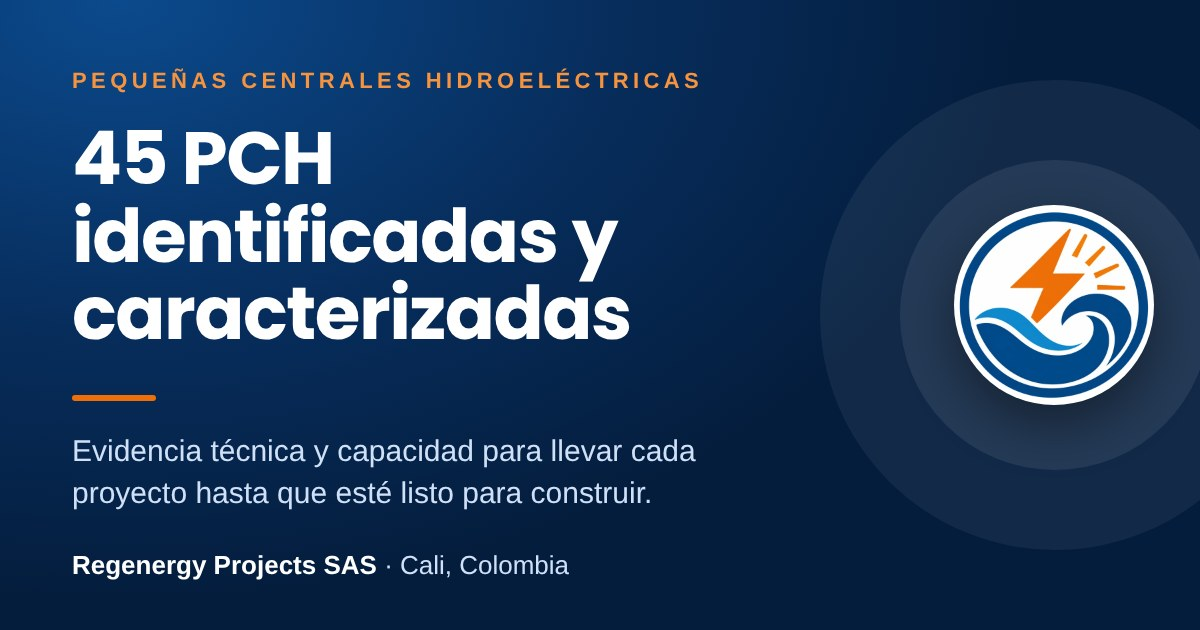
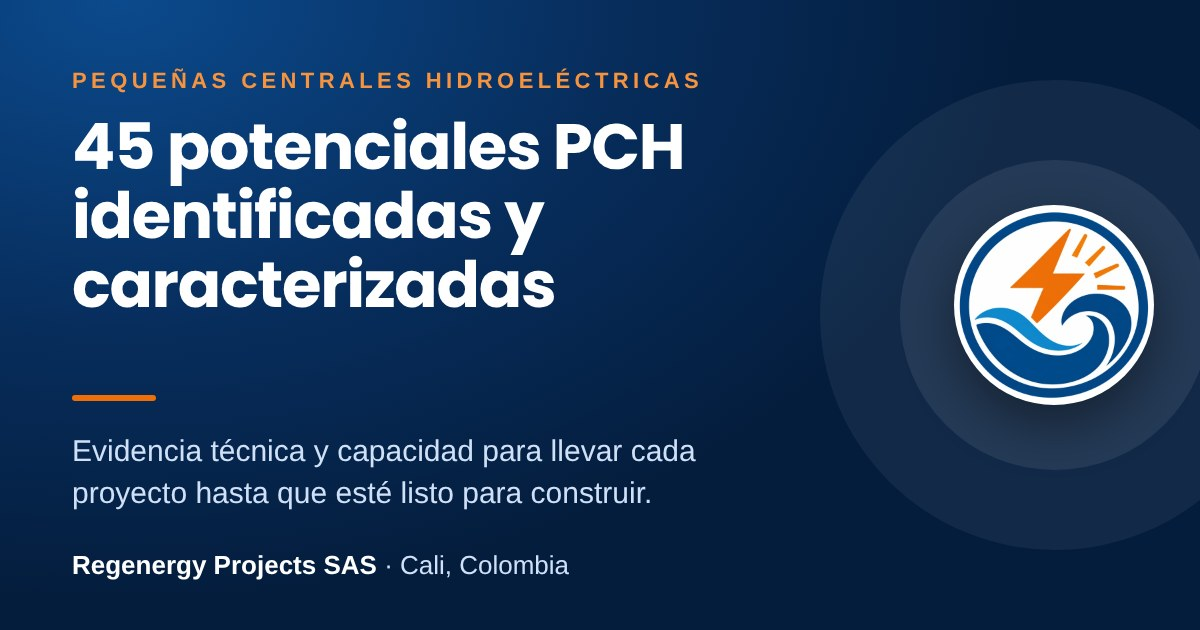
Titular: 45 potenciales PCH identificadas y caracterizadas (pagina e imagen social)
Claude-Session: https://claude.ai/code/session_01FagwTUnTUEwCBVF9PmGaFj

Changed region(s): [[0.0617, 0.181, 0.5858, 0.5429]]

diff --git a/index.html b/index.html
@@ -19,7 +19,7 @@
 <meta property="og:image" content="https://regenergy.pro/assets/og-regenergy.jpg">
 <meta property="og:image:width" content="1200">
 <meta property="og:image:height" content="630">
-<meta property="og:image:alt" content="Regenergy Projects: 45 pequeñas centrales hidroeléctricas identificadas y caracterizadas">
+<meta property="og:image:alt" content="Regenergy Projects: 45 potenciales PCH identificadas y caracterizadas">
 <meta name="twitter:card" content="summary_large_image">
 <meta name="twitter:image" content="https://regenergy.pro/assets/og-regenergy.jpg">
 <link rel="preconnect" href="https://fonts.googleapis.com">
@@ -551,7 +551,7 @@ footer{background:#041A38;color:var(--on-dark);padding:36px 0 calc(36px + env(sa
   <div class="wrap hero__grid">
     <div class="hero__copy">
       <p class="eyebrow">Pequeñas centrales hidroeléctricas · Colombia</p>
-      <h1 id="h-hero" style="margin-top:18px">45 pequeñas centrales hidroeléctricas identificadas y caracterizadas</h1>
+      <h1 id="h-hero" style="margin-top:18px">45 potenciales PCH identificadas y caracterizadas</h1>
       <span class="rule" aria-hidden="true"></span>
       <p class="hero__sub">Un portafolio construido con criterio técnico y la capacidad para acompañar cada proyecto desde la prefactibilidad hasta que esté listo para construir.</p>
       <div class="cta">
